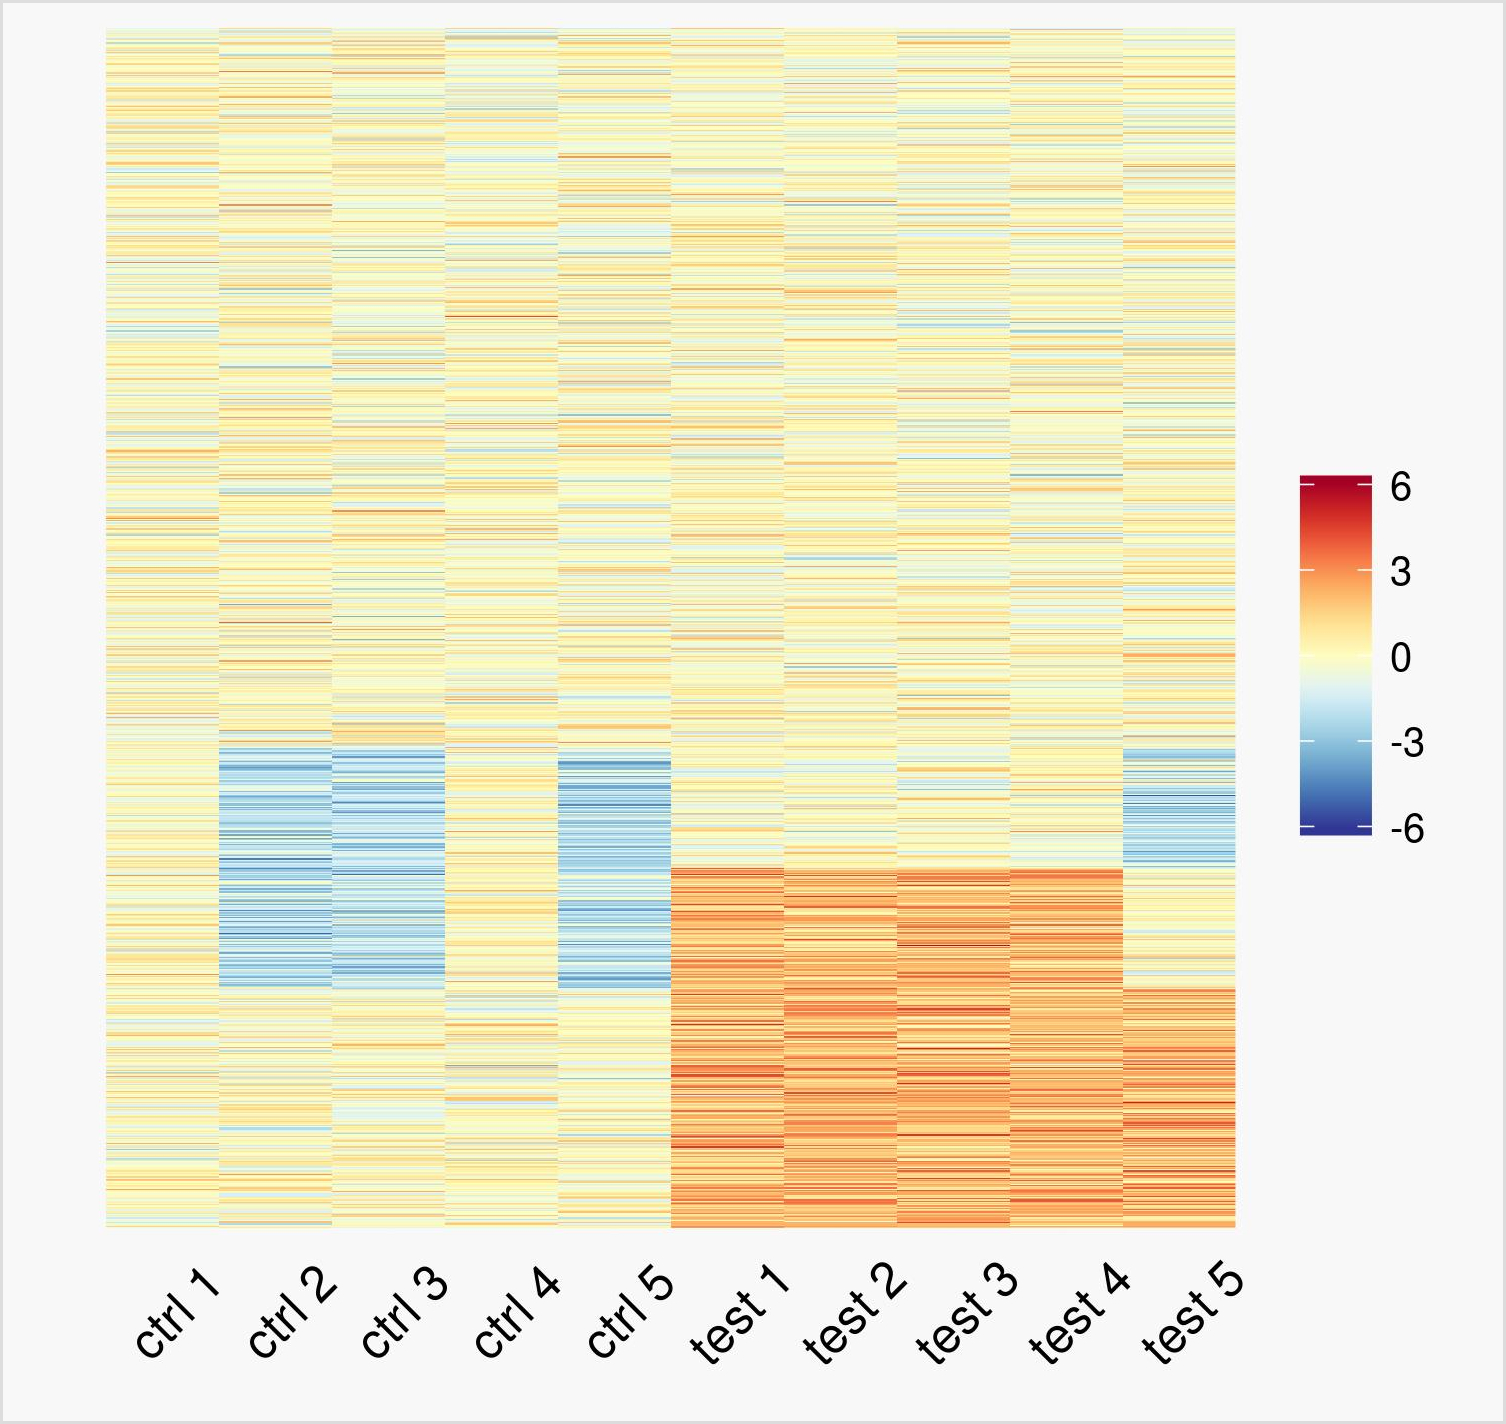
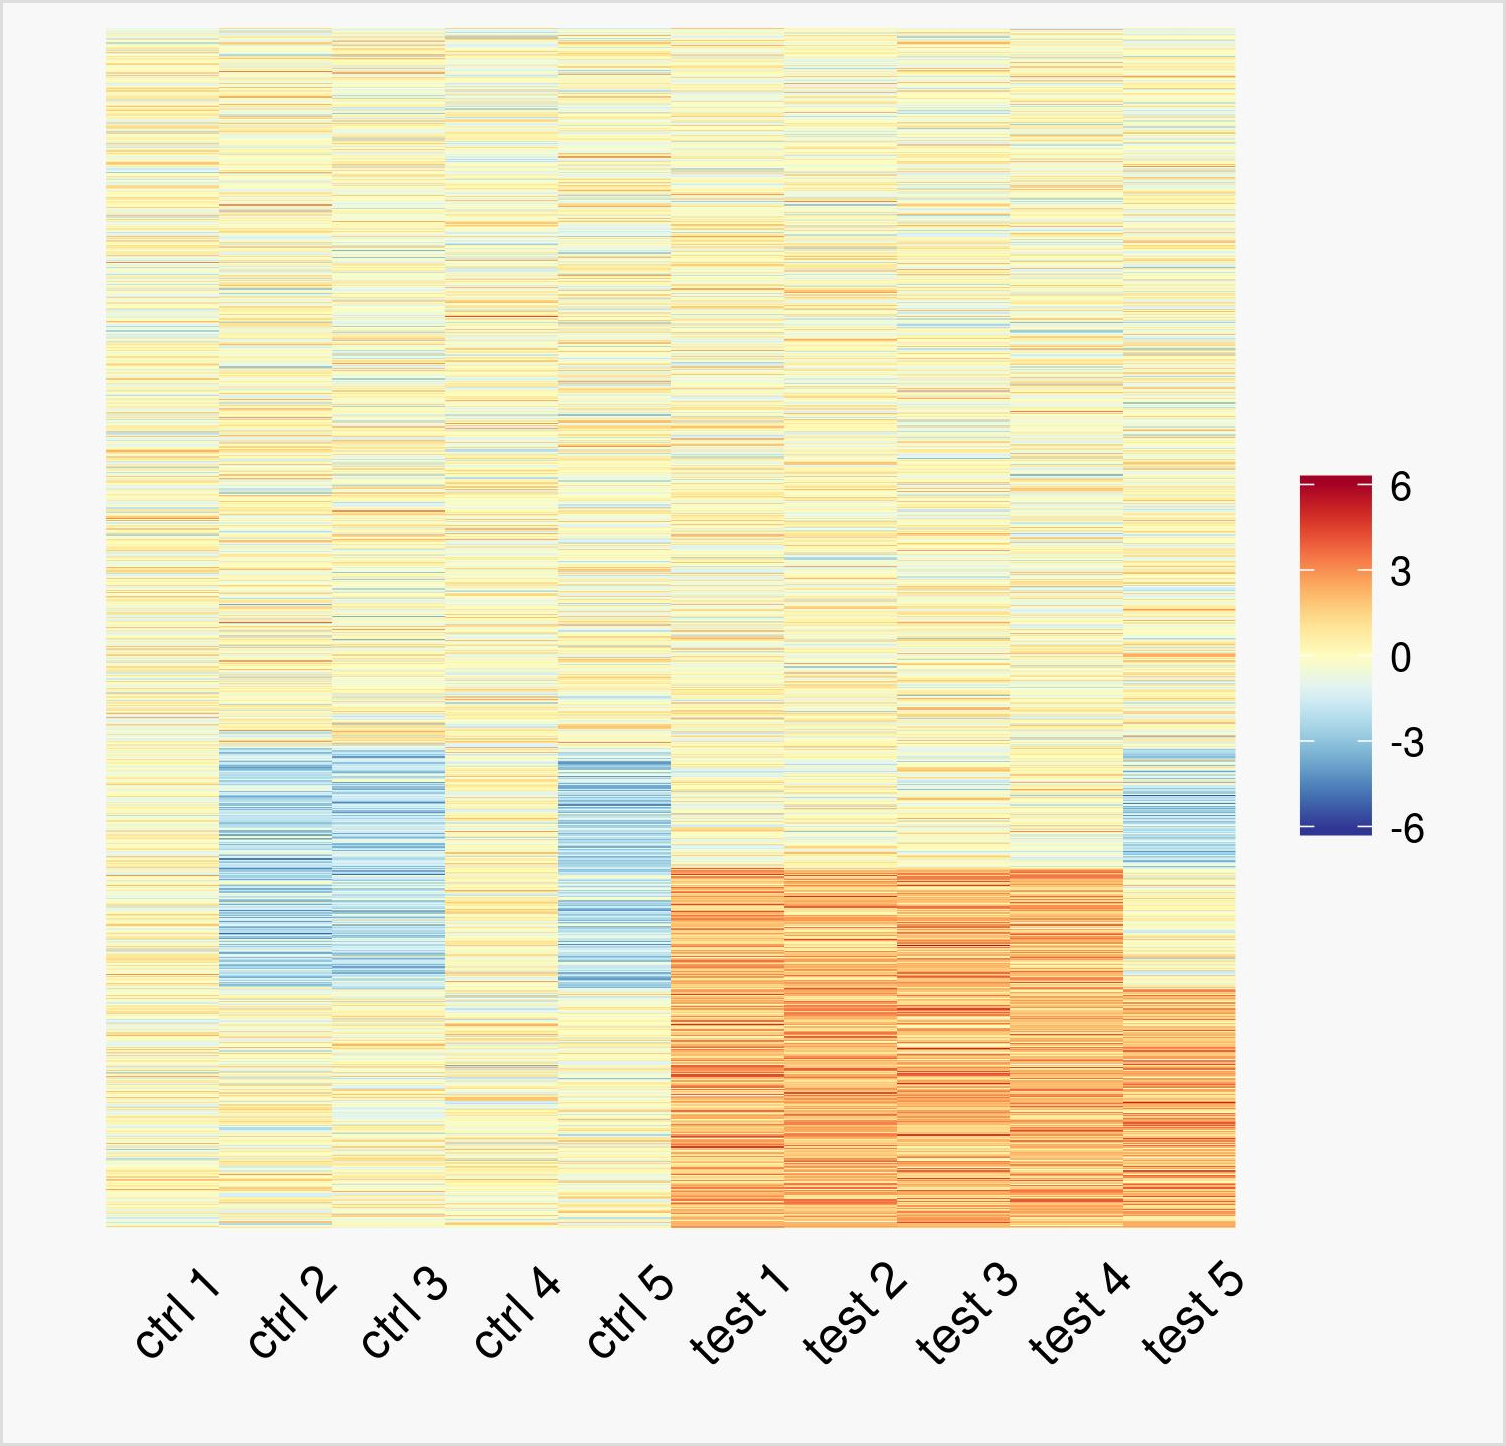
try 100% for mobile

diff --git a/_posts/2016-06-09-title.md b/_posts/2016-06-09-title.md
@@ -10,7 +10,7 @@ high throughput technologies such as microarrays. Here I demonstrate how to
 produce the following heatmap in R using the ggplot2 package.
 
 
-<style type="text/css"> img { max-width: 60%; height: auto; } </style>
+<style type="text/css"> img { width: 100%; max-width: 400px; height: auto; } </style>
 
 <img src="/img/heatmap.jpeg">
 
